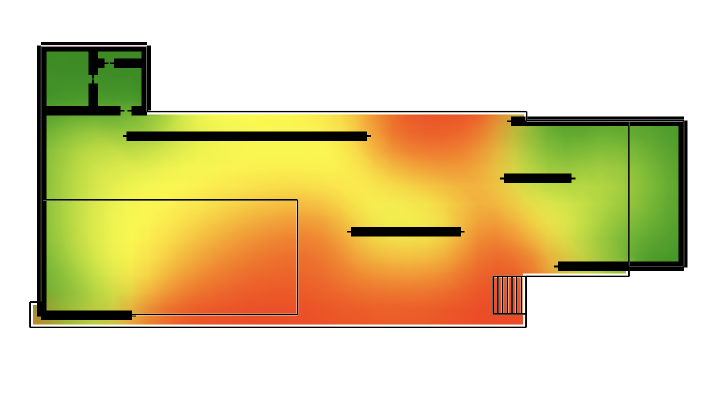
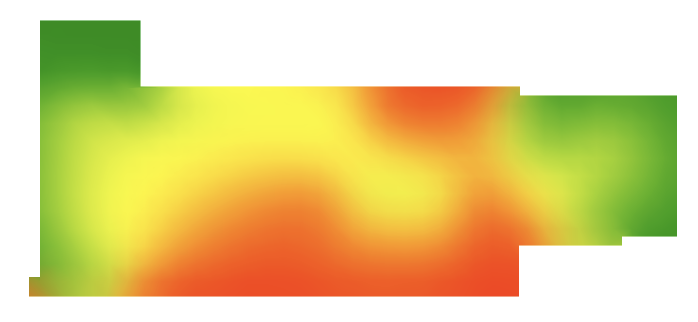
Replace heatmap image with heatmap gif

Changed region(s): [[0.0301, 0.0621, 0.9928, 0.9317], [0.692, 0.4348, 0.8123, 0.4658]]

diff --git a/README.md b/README.md
@@ -14,7 +14,7 @@ The .gh file contains two columns:
 
 ## 2a) Heatmaps
 
-![](imgs/heatmap.png)
+![](imgs/heatmap-.gif)
 This demo showcases spatial data visualization through heatmaps. The Grasshopper file includes examples with increasing complexity.
 
 Files
